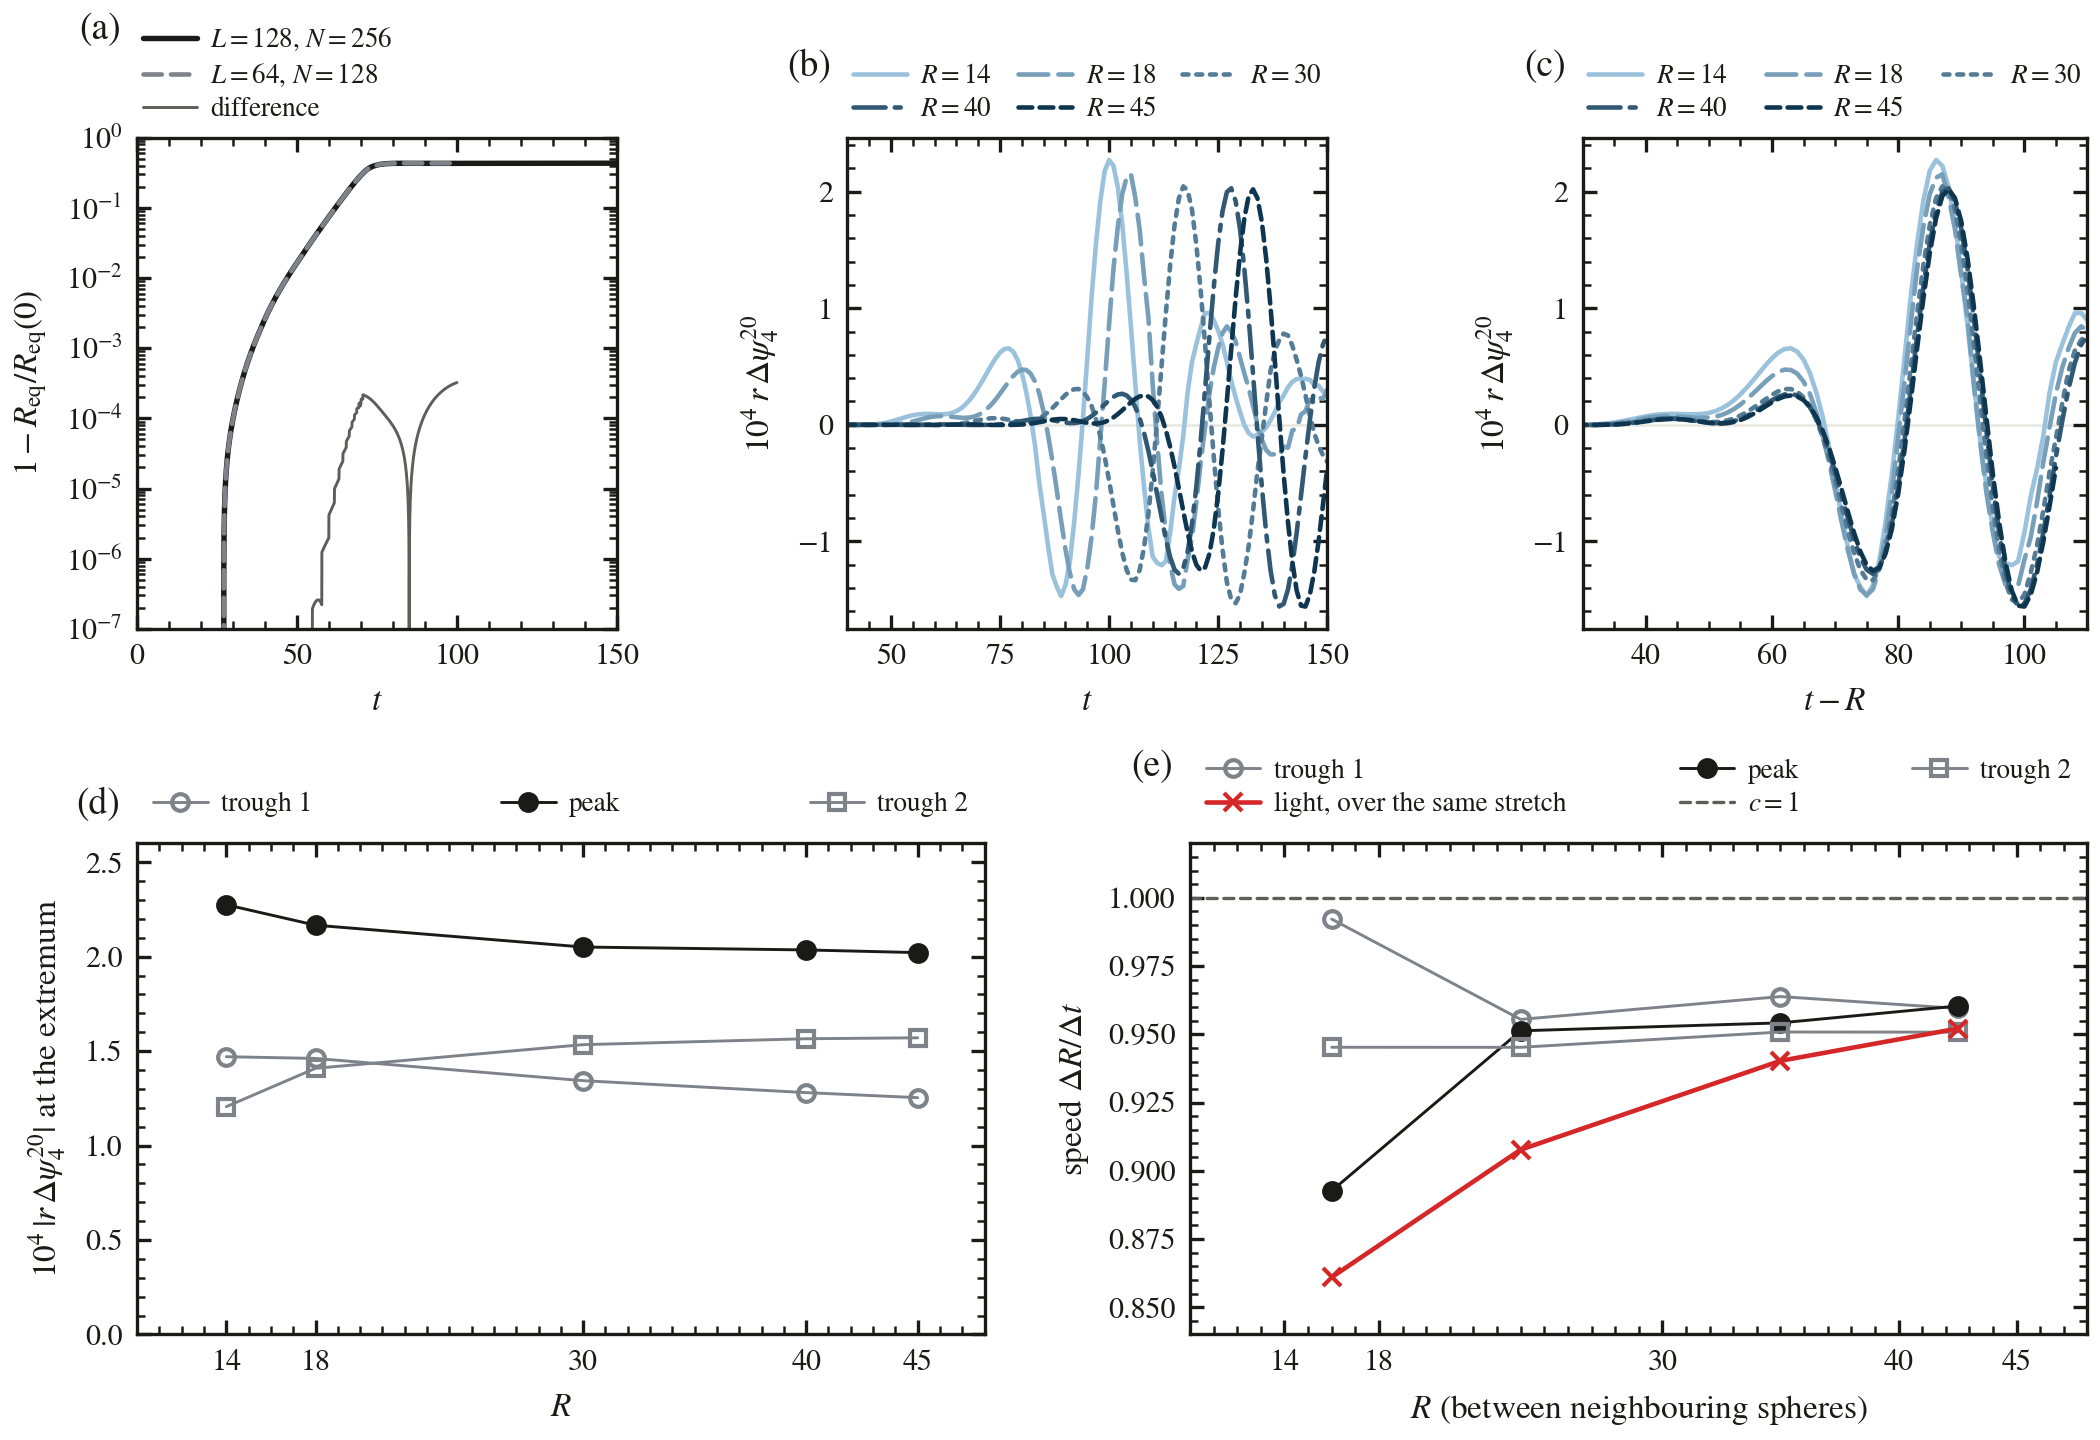
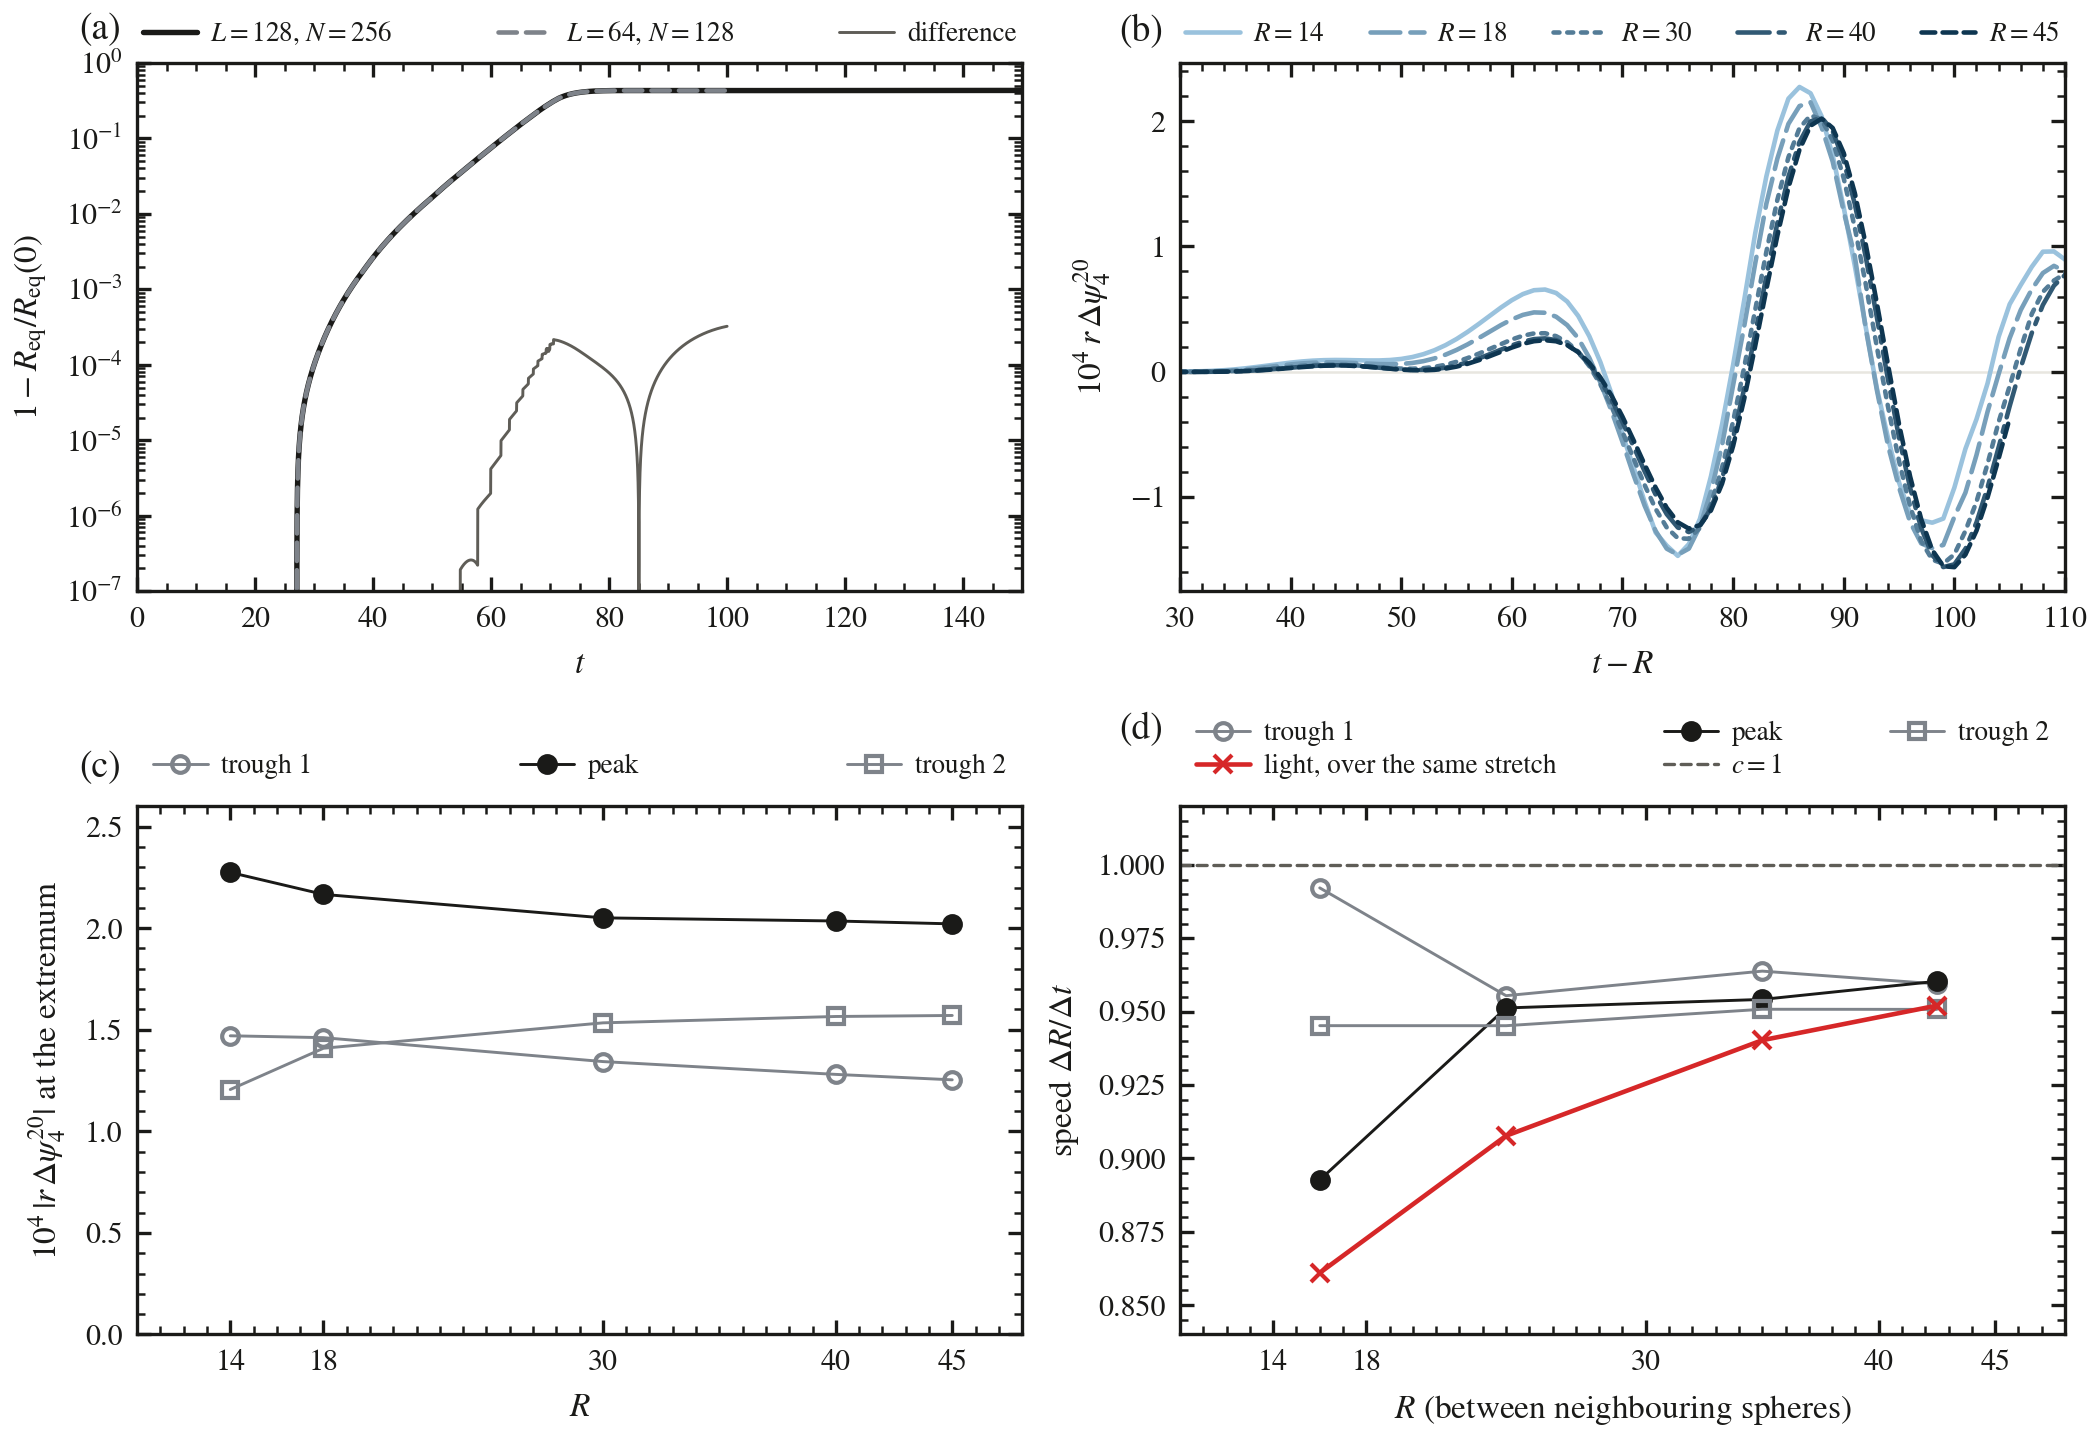
Spinning: far-zone wave figure drops the wave-against-t panel

diff --git a/grteclyn-wrapper/src/grteclyn_wrapper/visualisation/spinning_wormhole/plot_farzone_wave.py b/grteclyn-wrapper/src/grteclyn_wrapper/visualisation/spinning_wormhole/plot_farzone_wave.py
@@ -10,13 +10,12 @@ r = 48-64 with no drive.
     1 - R_eq / R_eq(0) (``throat_geometry.dat``) in the far-zone run and in the
     L = 64 hold, and the difference of the two deficits;
 (b) the (l, m) = (2, 0) mode of r Psi4 at R = 14, 18, 30, 40, 45 minus its
-    t = 0 value (the stationary background's own curvature), against t: the
+    t = 0 value (the stationary background's own curvature), against t - R: the
     consumer's stream already carries the factor r, so nothing here multiplies
     by R; the imaginary part stays below 1.1e-3 of the real one (axisymmetry);
-(c) the same against t - R;
-(d) the three extrema of (c) at each radius, in absolute value: the first
+(c) the three extrema of (b) at each radius, in absolute value: the first
     trough (t - R in 68-81), the peak (81-93) and the second trough (93-106);
-(e) the speed of each extremum between neighbouring spheres, Delta R over the
+(d) the speed of each extremum between neighbouring spheres, Delta R over the
     difference of its arrival times (each time the vertex of a parabola through
     the three samples about the extremum), against the speed of light over the
     same stretch, Delta R / int dr / c(r) with c = alpha sqrt(chi) - beta^r, the
@@ -45,7 +44,7 @@ draws the radii in its blue, light (R = 14) to dark (R = 45), and the speed of
 light in its red; ``house`` is the house ordinal ramp with an ink light speed.
 ``--colors`` takes five colours, innermost radius first.
 
-Reads the packed runs under ``results/spinningwormhole/campaign/`` and, for (e),
+Reads the packed runs under ``results/spinningwormhole/campaign/`` and, for (d),
 the far-zone run's slice cache under ``runs/``; writes
 ``results/spinningwormhole/figures/farzone_wave_02c`` (PNG + PDF) and the same
 figure into the run's ``figures/farzone_wave``.
@@ -71,11 +70,11 @@ FIGURES = solutions.REPO / "results" / "spinningwormhole" / "figures"
 FARZONE = "spin_hold_L128_ml3_J100_full_farfix_t150"
 HOLD = "spin_hold_L64_ml3_J100_full_spdrv1_farfix_t100"
 RUN_DIR = solutions.REPO / "runs" / "spinning_wormhole" / "drainhole" / "00_paper_runs" / FARZONE
-# the extrema of (d) and (e), as windows in t - R
+# the extrema of (c) and (d), as windows in t - R
 FEATURES = (("trough 1", (68.0, 81.0)), ("peak", (81.0, 93.0)), ("trough 2", (93.0, 106.0)))
 T_HOLD = 100.0              # the L = 64 hold's stop: the throat comparison runs to here
-T_FROM = 40.0               # (b) starts here: before it r Psi4 stays below 1e-6
-U_RANGE = (30.0, 110.0)     # (c)'s window in t - R
+T_QUIET = 40.0              # before this r Psi4 stays below 1e-6 (printed)
+U_RANGE = (30.0, 110.0)     # (b)'s window in t - R
 T_LIGHT = np.arange(100.0, 146.0, 5.0)   # the slices the light speed is averaged over
 R_FAR = 30.0                # the far zone: the speed fits use R >= this
 SPIN_BLUE, SPIN_RED = "#1f77b4", "#d62728"
@@ -173,8 +172,7 @@ def speeds(feats, light):
 
 def draw(t, waves, throat, look, light) -> plt.Figure:
     style.prd(8.0)
-    fig, ax = plt.subplot_mosaic([["a", "a", "b", "b", "c", "c"], ["d", "d", "d", "e", "e", "e"]],
-                                 figsize=(7.0, 4.8), layout="constrained")
+    fig, ax = plt.subplot_mosaic([["a", "b"], ["c", "d"]], figsize=(7.0, 4.8), layout="constrained")
     radii = sorted(waves)
     lines = style.ordinal_series(len(radii), lw=1.1)
     for line, c in zip(lines, look["radii"]):
@@ -190,19 +188,16 @@ def draw(t, waves, throat, look, light) -> plt.Figure:
                (ax["a"].plot(tf[keep], diff, color=style.MUTED, lw=0.7)[0], "difference")]
     ax["a"].set(yscale="log", ylim=(1e-7, 1.0), xlim=(0.0, tf[-1]), xlabel=r"$t$",
                 ylabel=r"$1-R_{\rm eq}/R_{\rm eq}(0)$")
-    style.legend_top(ax["a"], entries, ncol=1)
+    style.legend_top(ax["a"], entries, ncol=3)
 
-    # (b) and (c): the wave against t and against t - R
-    for key, shift, xlim, xlabel in (("b", False, (T_FROM, t[-1]), r"$t$"), ("c", True, U_RANGE, r"$t-R$")):
-        handles = []
-        for r, line in zip(radii, lines):
-            x = t - r if shift else t
-            handles.append((ax[key].plot(x, 1e4 * waves[r].real, **line)[0], rf"$R={r:g}$"))
-        ax[key].axhline(0.0, color=style.GRID, lw=0.6, zorder=0)
-        ax[key].set(xlim=xlim, xlabel=xlabel, ylabel=r"$10^4\, r\,\Delta\psi_4^{20}$")
-        style.legend_top(ax[key], handles, ncol=3)
+    # (b) the wave against t - R
+    handles = [(ax["b"].plot(t - r, 1e4 * waves[r].real, **line)[0], rf"$R={r:g}$")
+               for r, line in zip(radii, lines)]
+    ax["b"].axhline(0.0, color=style.GRID, lw=0.6, zorder=0)
+    ax["b"].set(xlim=U_RANGE, xlabel=r"$t-R$", ylabel=r"$10^4\, r\,\Delta\psi_4^{20}$")
+    style.legend_top(ax["b"], handles, ncol=len(radii))
 
-    # (d) the extrema against R; (e) their speed between neighbouring spheres
+    # (c) the extrema against R; (d) their speed between neighbouring spheres
     feats = extrema(t, waves)
     marks = {"trough 1": dict(marker="o", mfc="none", color=style.CONTEXT),
              "peak": dict(marker="o", color=style.INK),
@@ -210,27 +205,27 @@ def draw(t, waves, throat, look, light) -> plt.Figure:
     entries_d, entries_e = [], []
     for name, rows in feats.items():
         r, _, y = np.array(rows).T
-        entries_d.append((ax["d"].plot(r, 1e4 * np.abs(y), ls="-", lw=0.7, ms=4.0, **marks[name])[0], name))
+        entries_d.append((ax["c"].plot(r, 1e4 * np.abs(y), ls="-", lw=0.7, ms=4.0, **marks[name])[0], name))
     vel = speeds(feats, light)
     for name, pairs in vel.items():
         rm, v, _ = np.array(pairs).T
-        entries_e.append((ax["e"].plot(rm, v, ls="-", lw=0.7, ms=4.0, **marks[name])[0], name))
+        entries_e.append((ax["d"].plot(rm, v, ls="-", lw=0.7, ms=4.0, **marks[name])[0], name))
     if light is not None:
         rm, _, vl = np.array(vel["peak"]).T
-        entries_e.append((ax["e"].plot(rm, vl, color=look["light"], lw=1.1, marker="x", ms=4.5)[0],
+        entries_e.append((ax["d"].plot(rm, vl, color=look["light"], lw=1.1, marker="x", ms=4.5)[0],
                           "light, over the same stretch"))
-    entries_e.append((ax["e"].axhline(1.0, color=style.MUTED, lw=0.8, ls=(0, (3.0, 2.0)), zorder=1),
+    entries_e.append((ax["d"].axhline(1.0, color=style.MUTED, lw=0.8, ls=(0, (3.0, 2.0)), zorder=1),
                       r"$c=1$"))
-    ax["d"].set(xlim=(10.0, 48.0), ylim=(0.0, 2.6), xlabel=r"$R$",
+    ax["c"].set(xlim=(10.0, 48.0), ylim=(0.0, 2.6), xlabel=r"$R$",
                 ylabel=r"$10^4\, |r\,\Delta\psi_4^{20}|$ at the extremum")
-    ax["e"].set(xlim=(10.0, 48.0), ylim=(0.84, 1.02), xlabel=r"$R$ (between neighbouring spheres)",
+    ax["d"].set(xlim=(10.0, 48.0), ylim=(0.84, 1.02), xlabel=r"$R$ (between neighbouring spheres)",
                 ylabel=r"speed $\Delta R/\Delta t$")
-    for key in ("d", "e"):
+    for key in ("c", "d"):
         ax[key].set_xticks(radii)
     # the marker handles' extent pads past the key's left edge: inset the key a little
-    style.legend_top(ax["d"], entries_d, ncol=3, borderpad=0.6)
-    style.legend_top(ax["e"], entries_e, ncol=3, borderpad=0.6)
-    keys = ("a", "b", "c", "d", "e")
+    style.legend_top(ax["c"], entries_d, ncol=3, borderpad=0.6)
+    style.legend_top(ax["d"], entries_e, ncol=3, borderpad=0.6)
+    keys = ("a", "b", "c", "d")
     style.tag_keys(fig, [ax[k] for k in keys], [f"({k})" for k in keys])
     return fig
 
@@ -242,27 +237,27 @@ def report(t, waves, throat, light) -> None:
     print(f"(a) deficit at t 60 / 100 / {tf[-1]:.0f}: far {np.interp(60, tf, df):.4f} / "
           f"{np.interp(100, tf, df):.4f} / {df[-1]:.4f}; hold {np.interp(60, th, dh):.4f} / "
           f"{np.interp(100, th, dh):.4f}; max |difference| to t {T_HOLD:g} {diff.max():.1e}")
-    quiet = {r: np.abs(w[t <= T_FROM]).max() for r, w in waves.items()}
-    print("(b) max |r dPsi4| to t %g: " % T_FROM + ", ".join(f"R {r:g} {q:.1e}" for r, q in quiet.items()))
+    quiet = {r: np.abs(w[t <= T_QUIET]).max() for r, w in waves.items()}
+    print("(b) max |r dPsi4| to t %g: " % T_QUIET + ", ".join(f"R {r:g} {q:.1e}" for r, q in quiet.items()))
     print("    max |Im| / max |Re|: " + ", ".join(
         f"R {r:g} {np.abs(w.imag).max() / np.abs(w.real).max():.1e}" for r, w in waves.items()))
     feats = extrema(t, waves)
     for name, rows in feats.items():
         ys = np.array([y for _, _, y in rows])
         far = np.array([abs(y) for r, _, y in rows if r >= R_FAR])
-        print(f"(d) {name}: " + ", ".join(f"R {r:g} {y:+.3e} at t-R {ta - r:.1f}" for r, ta, y in rows)
+        print(f"(c) {name}: " + ", ".join(f"R {r:g} {y:+.3e} at t-R {ta - r:.1f}" for r, ta, y in rows)
               + f"; spread {100 * (np.abs(ys).max() / np.abs(ys).min() - 1):.1f} %, "
               f"over R >= {R_FAR:g} {100 * (far.max() / far.min() - 1):.1f} %")
     for name, pairs in speeds(feats, light).items():
         r, ta, _ = np.array(feats[name]).T
         far = r >= R_FAR
         fit = 1.0 / np.polyfit(r[far], ta[far], 1)[0]
-        print(f"(e) {name}: " + ", ".join(f"R {rm:g}: {v:.3f} (light {vl:.3f})" for rm, v, vl in pairs)
+        print(f"(d) {name}: " + ", ".join(f"R {rm:g}: {v:.3f} (light {vl:.3f})" for rm, v, vl in pairs)
               + f"; fit over R >= {R_FAR:g}: {fit:.3f}")
     if light is None:
-        print("(e) no slice cache: the light speed is not drawn")
+        print("(d) no slice cache: the light speed is not drawn")
     else:
-        print("(e) light, alpha sqrt(chi) - beta^r at R 14 / 30 / 45: " + " / ".join(
+        print("(d) light, alpha sqrt(chi) - beta^r at R 14 / 30 / 45: " + " / ".join(
             f"{np.interp(r, *light):.3f}" for r in (14.0, 30.0, 45.0)))
 
 

diff --git a/research/spinningwormhole/STATUS.md b/research/spinningwormhole/STATUS.md
@@ -356,7 +356,7 @@ level 1's box (from r 20; level 1 to 21.3) and raises levels 1–2 (Ham 1.8e-4 /
   (41 GB, 10-19 ≈ 08:10 MSK); the second node's (the 0.5c's last plotfiles) not listed from here. Movies to the trust
   windows rendering (`logs/rerender_{0p2c_N192_farfix_t100,0p2c_L128_farzone_t150,0p5c_N192_farfix_t100}*.log`).
 - Claim 3's figure (10-19): `results/spinningwormhole/figures/farzone_wave_02c.png` (`plot_farzone_wave`; a copy in the
-  run's `figures/`): the throat against the L 64 hold, r·Δψ4 (2,0) at R 14–45 against t and t − R, the extrema against
+  run's `figures/`): the throat against the L 64 hold, r·Δψ4 (2,0) at R 14–45 against t − R, the extrema against
   R (over R 30–45 the peak holds to 1.5 %, the troughs to 7.2 % / 2.4 %), and their speed between neighbouring spheres
   against light's over the same stretch (α√χ − β^r on the equator: 0.86 at R 14–18, 0.95 at 40–45): within 1 % of
   light over R 40–45 and 2.5 % over 30–40, ahead of it further in (4–15 %) while the near field fades. The static
